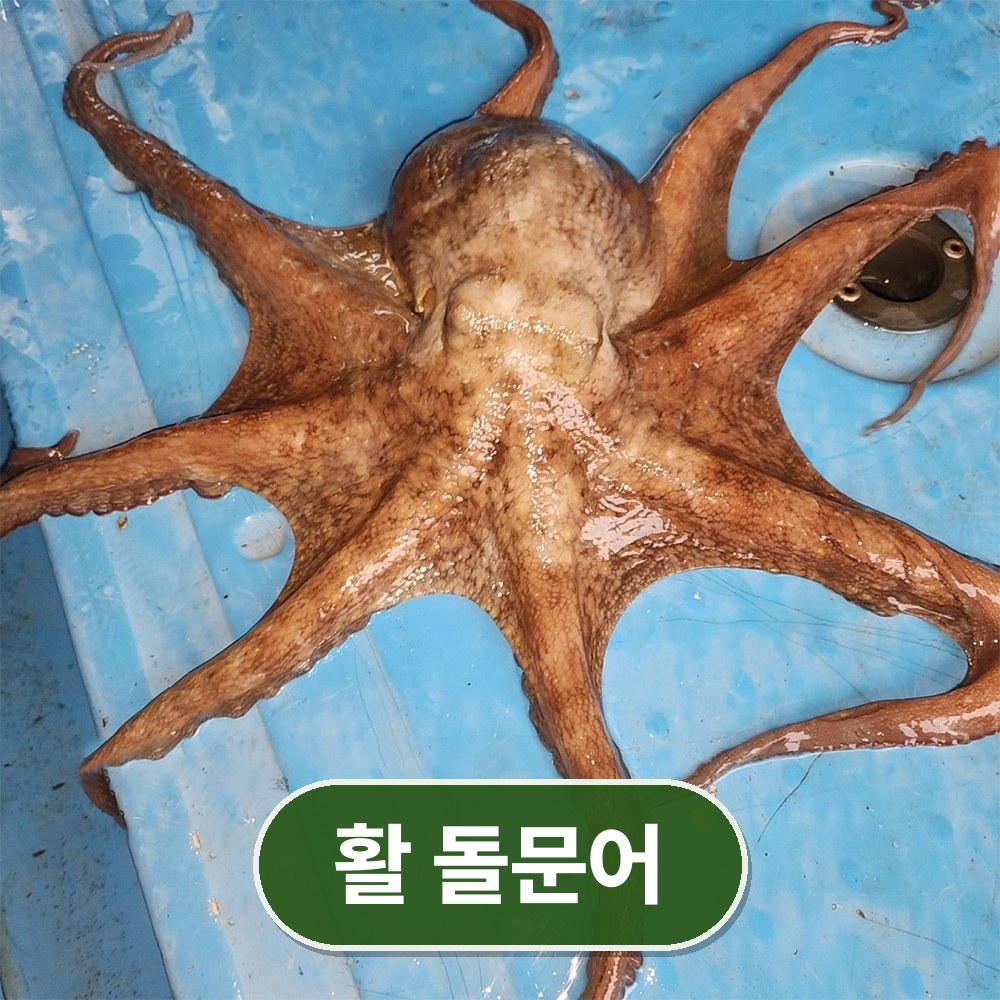
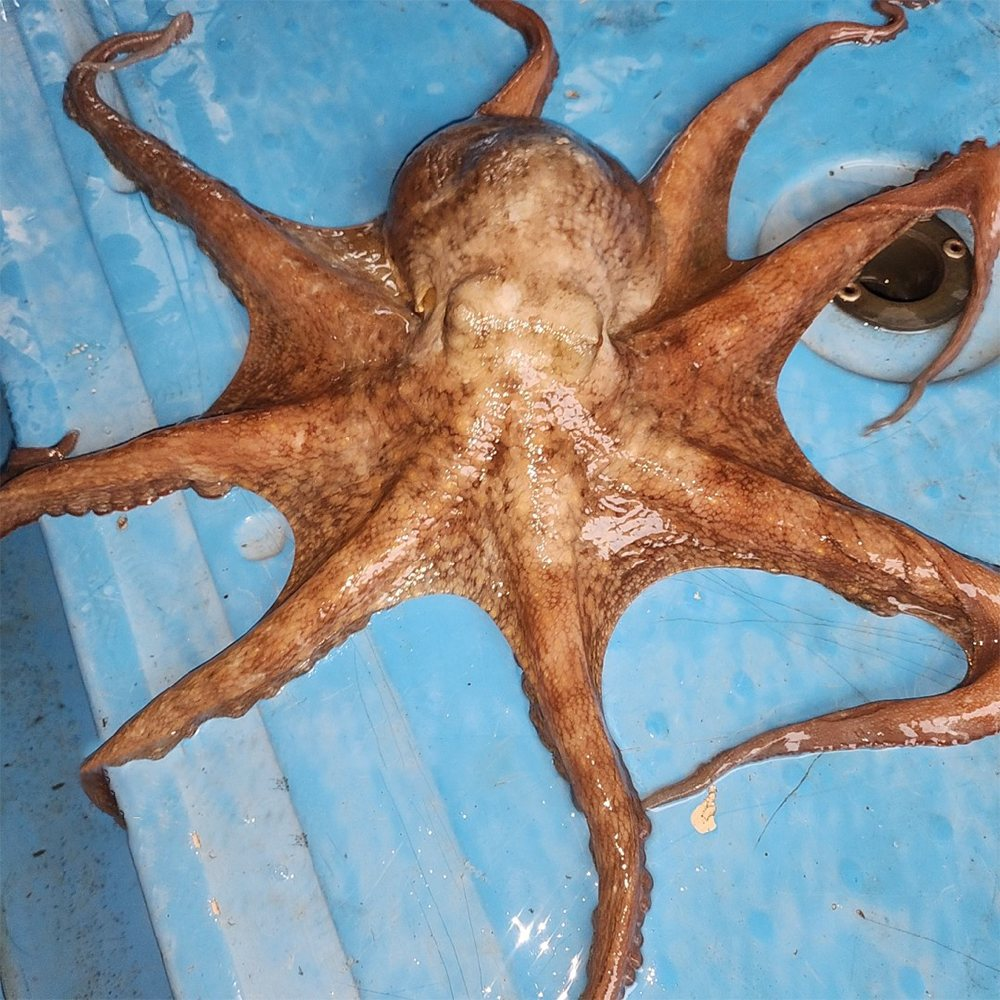
활 돌문어 대표사진 이름표 되돌림 (원본 사진, main_label 설정 삭제)
Claude-Session: https://claude.ai/code/session_01UCupzPUrEgZbBPue5zx9mb

Changed region(s): [[0.248, 0.775, 0.775, 0.961]]

diff --git a/07_BOOK/RAW_HISTORY.md b/07_BOOK/RAW_HISTORY.md
@@ -8,13 +8,13 @@
 >
 > 다듬은 원고는 `BOOK_MANUSCRIPT.md` 로 간다. **RAW -> EDIT -> BOOK**
 
-마지막으로 뽑은 때: 2026-11-26 08:13
+마지막으로 뽑은 때: 2026-11-26 08:18
 
 ---
 
 ## 숫자 (실제 기록에서 셈)
 
-- 개발 기록: **16**
+- 개발 기록: **17**
 - 오류 기록: **3**
 - 시험 기록: **22**
 - 결정 기록: **12**
@@ -625,6 +625,44 @@ tools/label_main.py, tools/import_photos.py, tools/product_info.json, images/pro
 
 ### 결과
 p09 1.jpg 에 「활 돌문어」
+
+### 정한 것
+-
+
+---
+
+
+## 제017회 · 2026-11-26 08:18
+
+### 무엇이 문제였나
+-
+
+### 사용자가 지시한 것
+문구 작성한 이미지 원래대로 돌려줘
+
+### 분석
+-
+
+### 실제로 한 일
+p09/1.jpg 를 650f773 의 원본으로 되돌림, product_info 의 9.main_label 삭제 (도구 tools/label_main.py 는 남김)
+
+### 건드린 파일
+images/products/p09/1.jpg, tools/product_info.json
+
+### 일어난 오류
+(없음)
+
+### 진범
+(없음)
+
+### 고친 방법
+(없음)
+
+### 어떻게 쟀나
+원본 md5 일치, 이름표 주석 없음, 이름표 자리 색 (127,188,219) 하늘색, label_main 대상 0, 걸쇠 10/10
+
+### 결과
+-
 
 ### 정한 것
 -

diff --git a/04_LOG/DEVELOPMENT_LOG.md b/04_LOG/DEVELOPMENT_LOG.md
@@ -550,3 +550,26 @@ tools/label_main.py, tools/import_photos.py, tools/product_info.json, images/pro
 p09 1.jpg 에 「활 돌문어」
 
 ==========================================================
+
+==========================================================
+[DEVELOPMENT RECORD #017]
+
+DATE: 2026-11-26
+TIME: 08:18
+
+[USER] 사용자 지시
+문구 작성한 이미지 원래대로 돌려줘
+
+[EXECUTION] 실제 한 일
+p09/1.jpg 를 650f773 의 원본으로 되돌림, product_info 의 9.main_label 삭제 (도구 tools/label_main.py 는 남김)
+
+[FILES] 건드린 파일
+images/products/p09/1.jpg, tools/product_info.json
+
+[TEST] 어떻게 쟀나
+원본 md5 일치, 이름표 주석 없음, 이름표 자리 색 (127,188,219) 하늘색, label_main 대상 0, 걸쇠 10/10
+
+[NEXT] 다음
+배포 여부 대표님께 확인
+
+==========================================================
